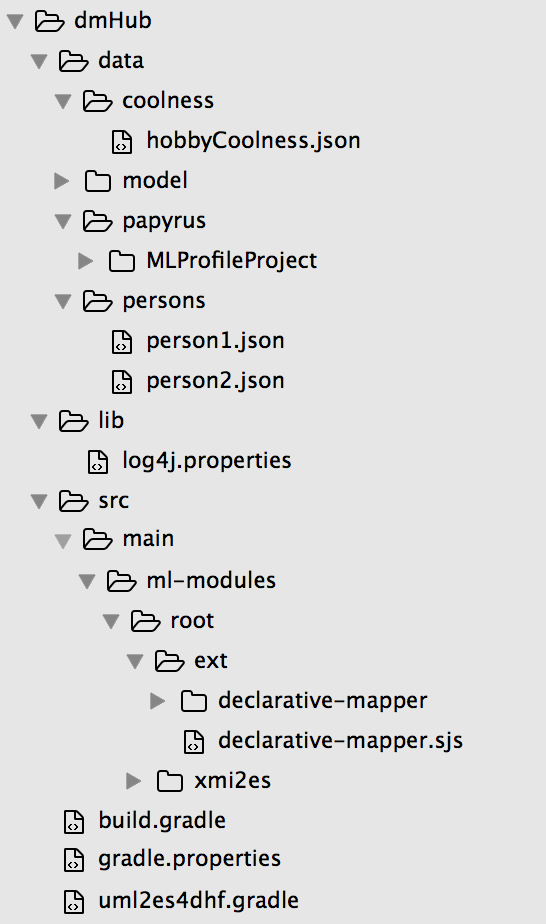
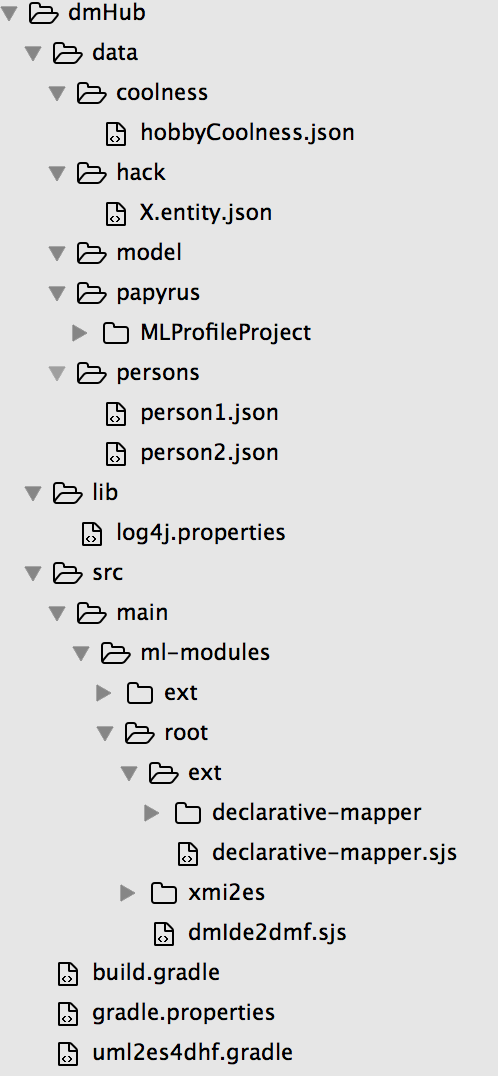
dmui tut

Changed region(s): [[0.0, 0.0, 0.9337, 1.0], [0.0904, 0.1515, 0.1205, 0.2727], [0.2108, 0.8182, 0.2711, 0.8485]]

diff --git a/uml2es/tutorials/dmui.md b/uml2es/tutorials/dmui.md
@@ -45,15 +45,13 @@ To begin, create a folder called dmHub anywhere on your build machine. This fold
 
 Copy into the dmHub folder the entire contents (preserving directory structure) of [dmHubLab/step1](dmHubLab/step1). You did the copy correctly if you see build.gradle and data/coolness/hobbyCoolness.json directly under dmHub. Otherwise, remove what you copied and try again at the correct level. 
 
-Under dmHub/data, create subfolders model and papyrus
-
-Under dmHub/src/main/ml-modules, create the subfolder ext
-
 Copy into dmHub/src/main/ml-modules/root the UML2ES transform code [../uml2esTransform/src/main/ml-modules/root/xmi2es](../uml2esTransform/src/main/ml-modules/root/xmi2es). You did it right if you can see the file dmHub/src/main/ml-modules/root/xml2es/xml2esTransform.xqy. If you don't see the file in exactly that this location, remove what you copied and try again at the correct level. What you just copied is the gradle build file, the gradle properties file, the log4j properties file, and the source person data. Tweak the gradle.properties once you've copied it over. For example, modify mlHost if you're ML server is not running on localhost; modify mlUsername and mlPassword if your admin username/password is not admin/admin.
 
-Copy into dmHub/src/main/ml-modules/ext the Declarative Mapper engine code. Copy from your local DM engine clone the directory declarative-mapper/src/main/ml-modules/root/ext to dmHub/src/main/ml-modules/root/ext. You did it right if you can see dmHub/src/main/ml-modules/ext/declarative-mapper.sjs and dmHub/src/main/ml-modules/ext/declarative-mapper/runtime.sjs. If you don't see the files in exactly that this location, remove what you copied and try again at the correct level. 
+Copy into dmHub/src/main/ml-modules/ext the Declarative Mapper engine code. Copy from your local DM engine clone the directory declarative-mapper/src/main/ml-modules/root/ext to dmHub/src/main/ml-modules/root/ext. You did it right if you can see dmHub/src/main/ml-modules/root/ext/declarative-mapper.sjs and dmHub/src/main/ml-modules/root/ext/declarative-mapper/runtime.sjs. If you don't see the files in exactly that this location, remove what you copied and try again at the correct level. 
 
 Copy into the main folder dmHub the UML2ES build file [../uml2esTransform/uml2es4dhf.gradle](../uml2esTransform/uml2es4dhf.gradle).
+
+Under dmHub/data, create subfolders model and papyrus
 
 Copy into dmHub/data/papyrus the UML2ES profile [../umlProfile/eclipse/MLProfileProject](../umlProfile/eclipse/MLProfileProject). You did it right if you can see the file dmHub/data/papyrus/MLProfileProject/MLProfile.profile.uml. If you don't see the file in exactly that location, remove what you copied and try again at the correct level. 
 
